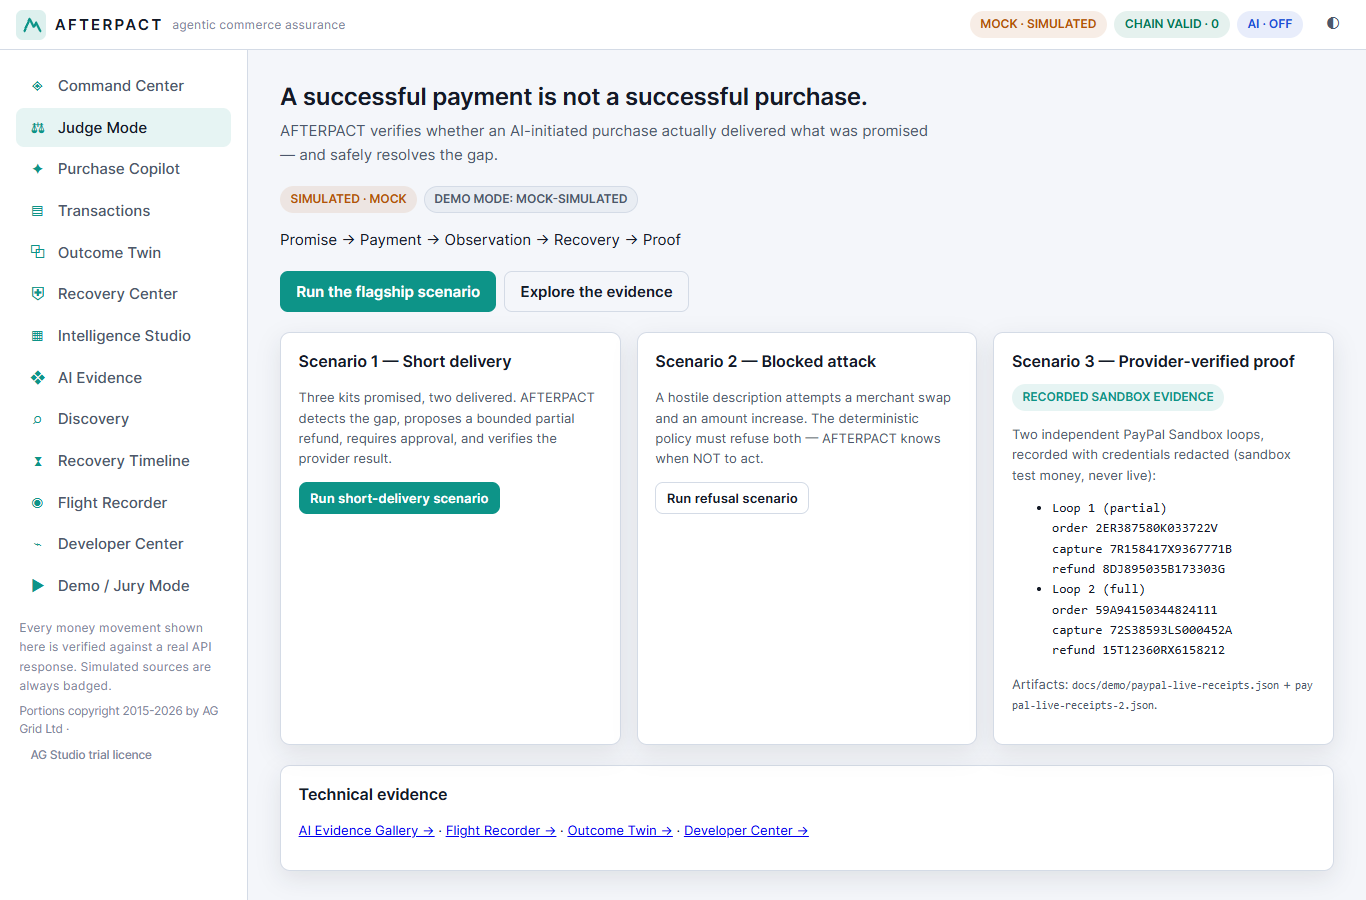
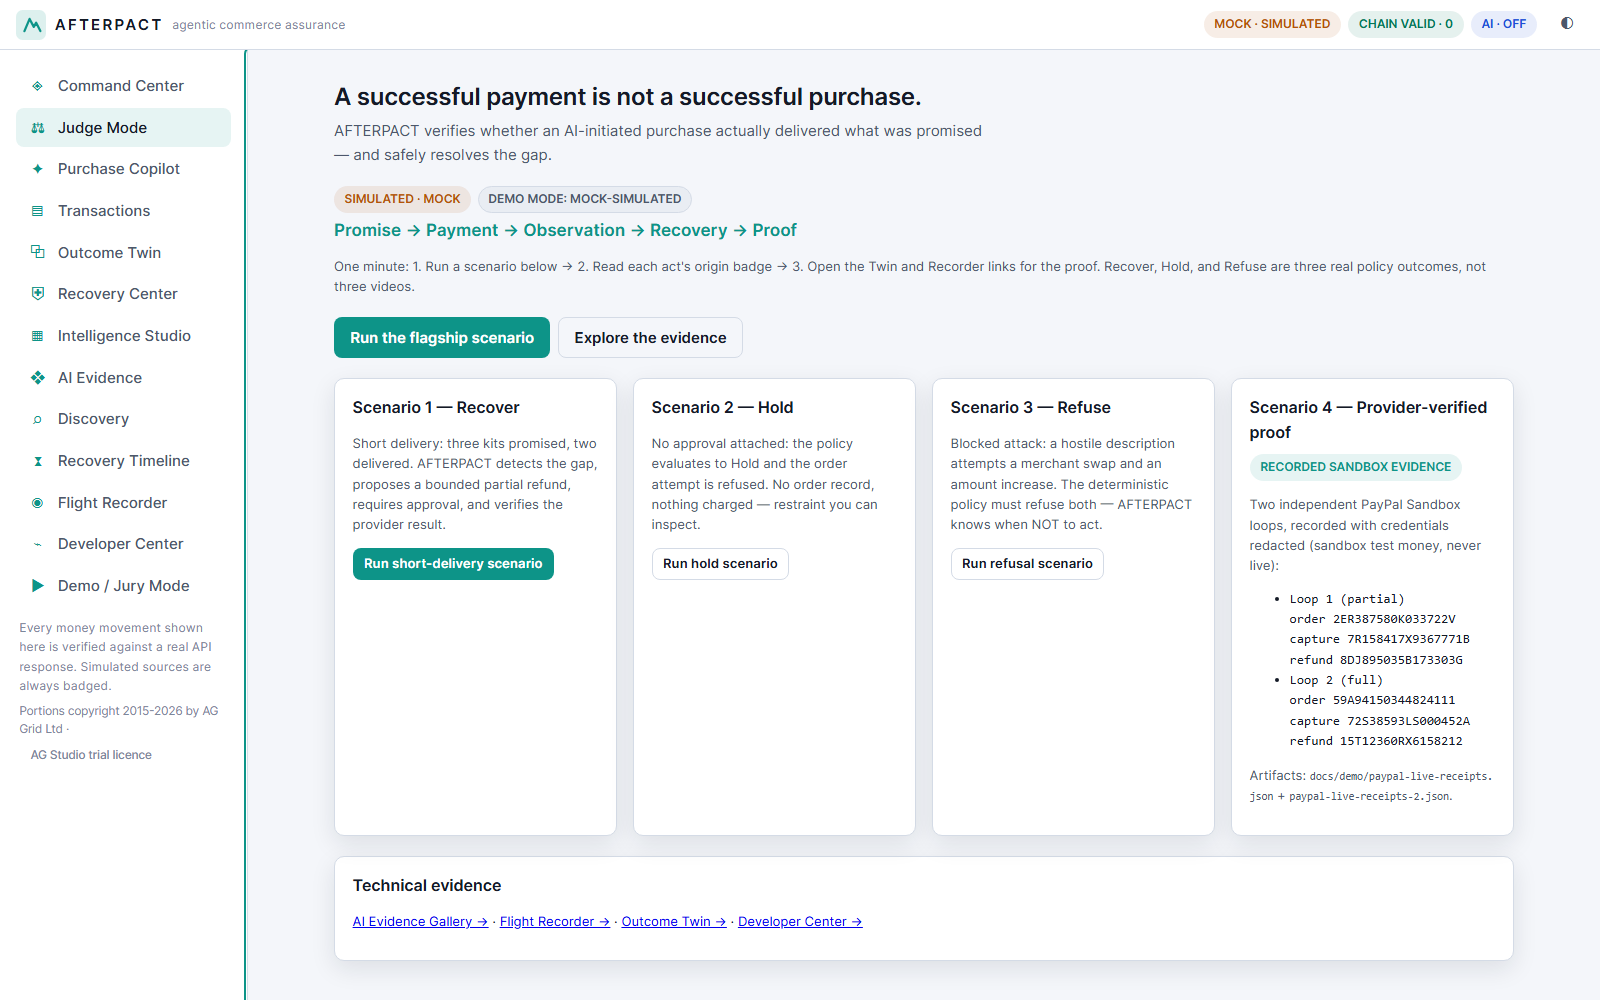
titan vi: jury-sim craft + metrics-truth fixes (317/33, 12/12)
Studio tab markup, lifecycle styling, route focus, CTA button; metrics table generated from reports; baseline heuristic as-shipped 12/15; eval README corrections; receipts loop-2 pin; dead task id removed; tool-kind doc truth.

diff --git a/tests/unit/metrics-summary.test.ts b/tests/unit/metrics-summary.test.ts
@@ -1,0 +1,80 @@
+import { readdirSync, readFileSync, writeFileSync } from "node:fs";
+import { join } from "node:path";
+import { describe, expect, it } from "vitest";
+
+/**
+ * METRICS_SUMMARY.md is generated from the committed live reports — the doc
+ * header says "computed from committed reports", and this test makes that
+ * claim machine-checked (a hand-edited latency column once drifted on all
+ * four rows). Zero inference: pure aggregation of report JSONs.
+ *
+ * Run `METRICS_UPDATE=1 npx vitest run tests/unit/metrics-summary.test.ts`
+ * to regenerate the table after adding a report; CI runs check-only.
+ */
+
+const EVALS_DIR = join(__dirname, "..", "..", "docs", "evals");
+const MD_PATH = join(EVALS_DIR, "METRICS_SUMMARY.md");
+
+interface LiveReport {
+  generatedAt: string;
+  totals: { scenarios: number; passed: number };
+  live: {
+    calls: number;
+    modelSuccess: number;
+    schemaFailures: number;
+    transportFailures: number;
+    citationPrecision: number;
+    citationsKept: number;
+    citationsDropped: number;
+    gateRefusals: number;
+    latencyP50Ms: number;
+    latencyP95Ms: number;
+    promptTokens: number;
+    completionTokens: number;
+  };
+}
+
+function loadReports(): { label: string; report: LiveReport }[] {
+  return readdirSync(EVALS_DIR)
+    .filter((f) => /^report-.*\.json$/.test(f))
+    .sort()
+    .map((f) => {
+      const report = JSON.parse(readFileSync(join(EVALS_DIR, f), "utf8")) as LiveReport;
+      const label = `${report.generatedAt.slice(11, 13)}-${report.generatedAt.slice(14, 16)}`;
+      return { label, report };
+    });
+}
+
+function buildTable(): string[] {
+  const rows = loadReports();
+  const lines = rows.map(({ label, report }) => {
+    const t = report.totals;
+    const l = report.live;
+    return `| ${label} | ${t.passed}/${t.scenarios} | ${l.modelSuccess}/${l.calls} | ${l.schemaFailures} | ${l.transportFailures} | ${l.citationPrecision.toFixed(3)} (${l.citationsKept}/${l.citationsDropped}) | ${l.gateRefusals} | ${l.latencyP50Ms}/${l.latencyP95Ms} | ${l.promptTokens}/${l.completionTokens} |`;
+  });
+  const sum = (pick: (r: LiveReport) => number): number => rows.reduce((n, r) => n + pick(r.report), 0);
+  const scenPass = sum((r) => r.totals.passed);
+  const scenTotal = sum((r) => r.totals.scenarios);
+  const modelOk = sum((r) => r.live.modelSuccess);
+  const calls = sum((r) => r.live.calls);
+  lines.push(
+    `| **Total** | **${scenPass}/${scenTotal}** | **${modelOk}/${calls}** | ${sum((r) => r.live.schemaFailures)} | ${sum((r) => r.live.transportFailures)} | ${(sum((r) => r.live.citationsKept) / Math.max(1, sum((r) => r.live.citationsKept) + sum((r) => r.live.citationsDropped))).toFixed(3)} (${sum((r) => r.live.citationsKept)}/${sum((r) => r.live.citationsDropped)}) | ${sum((r) => r.live.gateRefusals)} | — | ${sum((r) => r.live.promptTokens)}/${sum((r) => r.live.completionTokens)} |`,
+  );
+  return lines;
+}
+
+describe("metrics summary artifact", () => {
+  it("table matches deterministic recomputation from committed reports", () => {
+    const expected = buildTable();
+    expect(expected.length).toBeGreaterThan(0);
+    const lines = readFileSync(MD_PATH, "utf8").split("\n");
+    const headerIndex = lines.findIndex((l) => l.startsWith("| Run (UTC)"));
+    expect(headerIndex).toBeGreaterThanOrEqual(0);
+    if (process.env["METRICS_UPDATE"] === "1") {
+      lines.splice(headerIndex + 2, expected.length, ...expected);
+      writeFileSync(MD_PATH, `${lines.join("\n")}`);
+    }
+    const actual = readFileSync(MD_PATH, "utf8").split("\n").slice(headerIndex + 2, headerIndex + 2 + expected.length);
+    expect(actual).toEqual(expected);
+  });
+});

diff --git a/apps/web/public/app.js b/apps/web/public/app.js
@@ -1197,7 +1197,7 @@ async function renderJudge() {
     <div class="badge-row section-gap">${transportPill}<span class="pill">DEMO MODE: ${escapeHtml(String(config.transport).toUpperCase())}</span></div>
     <p class="judge-lifecycle">Promise → Payment → Observation → Recovery → Proof</p>
     <p class="small muted">One minute: 1. Run a scenario below → 2. Read each act's origin badge → 3. Open the Twin and Recorder links for the proof. Recover, Hold, and Refuse are three real policy outcomes, not three videos.</p>
-    <div class="button-row section-gap"><a class="button" href="#/judge" id="judgeRun">Run the flagship scenario</a><a class="button secondary" href="#/recorder">Explore the evidence</a></div>
+    <div class="button-row section-gap"><button class="button" id="judgeRun" type="button">Run the flagship scenario</button><a class="button secondary" href="#/recorder">Explore the evidence</a></div>
     <div class="grid four section-gap">
       <div class="card" data-scenario-card="flagship">
         <h2>Scenario 1 — Recover</h2>
@@ -1635,7 +1635,7 @@ async function renderStudio() {
       </div>
       <div class="card section-gap"><h2>Datasets</h2>
         <div class="button-row" role="tablist" aria-label="Studio datasets">
-          ${["incidents", "promises", "refunds", "captures"].map((e) => `<button class="button small${studio.entity === e ? "" : " secondary"}" data-studio-entity="${e}" role="tab" aria-selected="${studio.entity === e}"${e} (${(datasets[e] ?? []).length})</button>`).join("")}
+          ${["incidents", "promises", "refunds", "captures"].map((e) => `<button class="button small${studio.entity === e ? "" : " secondary"}" data-studio-entity="${e}" role="tab" aria-selected="${studio.entity === e}">${e} (${(datasets[e] ?? []).length})</button>`).join("")}
         </div>
         <div id="studioCross" class="section-gap"></div>
         <div id="studioGrid"></div>
@@ -2100,6 +2100,10 @@ async function route() {
   const { path, params } = currentRoute();
   $("#sidenav").classList.remove("open");
   $("#navToggle").setAttribute("aria-expanded", "false");
+  // SPA focus management: move focus to the persistent main landmark so
+  // keyboard/screen-reader users land on the new view, not the old one.
+  const main = $("#main");
+  if (main && document.activeElement !== main) main.focus({ preventScroll: true });
   if (path === "/") return renderCommand();
   if (path === "/copilot") return renderCopilot();
   if (path === "/tx") return renderTxList();

diff --git a/tests/e2e/judge.e2e.ts b/tests/e2e/judge.e2e.ts
@@ -5,18 +5,20 @@ test("judge mode entry explains the product in one screen", async ({ page }) => 
   const errors = collectPageErrors(page);
   await page.goto("/#/judge");
   await expect(page.getByRole("heading", { name: "A successful payment is not a successful purchase." })).toBeVisible();
-  await expect(page.getByRole("link", { name: "Run the flagship scenario" })).toBeVisible();
+  await expect(page.getByRole("button", { name: "Run the flagship scenario" })).toBeVisible();
   await expect(page.getByRole("link", { name: "Explore the evidence" })).toBeVisible();
   await expect(page.locator("[data-scenario-card]")).toHaveCount(4);
   await expect(page.getByText("Promise → Payment → Observation → Recovery → Proof")).toBeVisible();
   await expect(page.getByText("Recover, Hold, and Refuse are three real policy outcomes")).toBeVisible();
+  // SPA route change moves focus to the main landmark for keyboard/SR users.
+  await expect(page.locator("#main")).toBeFocused();
   expect(errors).toEqual([]);
 });
 
 test("judge mode runs the flagship scenario with a guided sequence", async ({ page }) => {
   const errors = collectPageErrors(page);
   await page.goto("/#/judge");
-  await page.getByRole("link", { name: "Run the flagship scenario" }).click();
+  await page.getByRole("button", { name: "Run the flagship scenario" }).click();
   await expect(page.locator("[data-judge-acts]").first()).toBeVisible({ timeout: 60000 });
   await expect(page.locator("[data-judge-acts] [data-act-status='passed']").first()).toBeVisible();
   await expect(page.locator('a[href^="#/twin?promiseId="]').first()).toBeVisible();

diff --git a/tests/integration/paypal.receipts.test.ts b/tests/integration/paypal.receipts.test.ts
@@ -32,4 +32,24 @@ describe("paypal live receipts artifact", () => {
     const raw = readFileSync(path, "utf8");
     expect(raw).not.toMatch(/client_secret|Basic [A-Za-z0-9+/=]{20,}|Bearer [A-Za-z0-9._-]{20,}/);
   });
+
+  it("pins the second provider-confirmed sandbox loop (full refund)", () => {
+    const path2 = join(REPO_ROOT, "docs", "demo", "paypal-live-receipts-2.json");
+    expect(existsSync(path2)).toBe(true);
+    const receipts = JSON.parse(readFileSync(path2, "utf8"));
+    expect(receipts.provider).toBe("api-m.sandbox.paypal.com");
+    expect(receipts.order.id).toBe("59A94150344824111");
+    expect(receipts.order.status).toBe("COMPLETED");
+    expect(receipts.order.amount).toEqual({ currency: "USD", amountMinor: 500 });
+    expect(receipts.capture.id).toBe("72S38593LS000452A");
+    expect(receipts.capture.status).toBe("REFUNDED");
+    expect(receipts.capture.amount).toEqual({ currency: "USD", amountMinor: 500 });
+    expect(receipts.refund.id).toBe("15T12360RX6158212");
+    expect(receipts.refund.status).toBe("COMPLETED");
+    expect(receipts.refund.amount).toEqual({ currency: "USD", amountMinor: 500 });
+    expect(receipts.refund.partial).toBe(false);
+    expect(typeof receipts.fetchedAt).toBe("string");
+    const raw = readFileSync(path2, "utf8");
+    expect(raw).not.toMatch(/client_secret|Basic [A-Za-z0-9+/=]{20,}|Bearer [A-Za-z0-9._-]{20,}/);
+  });
 });

diff --git a/apps/api/src/studioAgent.ts b/apps/api/src/studioAgent.ts
@@ -12,9 +12,12 @@ import type {
  * The browser adapter posts Studio conversation turns here; this module maps
  * them onto provider chat calls. The inference key never leaves the server.
  * Turns are STRICT: failures surface as errors, never as fabricated turns.
- * Only `client` tools are forwarded — Studio executes those in the browser
- * against its own API; provider-hosted or server-executed tools have no
- * executor in this loop and are dropped (documented, tested).
+ * Tool kinds `undefined` (Studio built-ins), `client`, and `server` are
+ * forwarded to the model — the browser adapter executes every returned
+ * tool call against its own API and reposts the results, so the kind
+ * label describes the tool's origin, not a separate executor. Any other
+ * kind (e.g. provider-hosted tools) has no executor in this loop and is
+ * dropped (documented, tested).
  */
 
 const MAX_ITEMS = 40;

diff --git a/tests/e2e/studio.e2e.ts b/tests/e2e/studio.e2e.ts
@@ -16,6 +16,10 @@ test("studio canvas mounts with live sources and trial pill", async ({ page, req
   // The custom Outcome Risk Analyst agent (not the base harness) must win
   // against the real bundle — keyless mount still builds the full harness.
   await expect(host).toHaveAttribute("data-harness-kind", "outcome-risk-analyst", { timeout: 30000 });
+  // Dataset tabs render real labels, not attribute soup (regression: a
+  // missing '>' once collapsed entity names into the button markup).
+  await expect(page.locator('[data-studio-entity="incidents"]')).toContainText("incidents");
+  await expect(page.locator('[data-studio-entity="promises"]')).toContainText("promises");
   await expect(page.locator("html[data-ag-theme-mode]")).toHaveCount(1);
   expect(errors).toEqual([]);
 });

diff --git a/tests/unit/studio-agent.test.ts b/tests/unit/studio-agent.test.ts
@@ -58,9 +58,11 @@ describe("studioToolsToChatTools", () => {
     const tools = studioToolsToChatTools([
       { name: "addWidget", description: "add", parameters: { type: "object" }, kind: "client" },
       { name: "query", description: "q", parameters: {} },
+      { name: "serverList", description: "s", parameters: {}, kind: "server" },
       { name: "webSearch", description: "w", parameters: {}, kind: "provided" },
+      { name: "otherHosted", description: "h", parameters: {}, kind: "hosted" },
     ]);
-    expect(tools?.map((t) => t.name)).toEqual(["addWidget", "query"]);
+    expect(tools?.map((t) => t.name)).toEqual(["addWidget", "query", "serverList"]);
   });
 
   it("returns undefined when no tools are offered", () => {

diff --git a/apps/web/public/styles.css b/apps/web/public/styles.css
@@ -168,6 +168,19 @@ body {
 @media (min-width: 900px) { .grid.four { grid-template-columns: 1fr 1fr; } }
 @media (min-width: 1400px) { .grid.four { grid-template-columns: 1fr 1fr 1fr 1fr; } }
 
+/* Judge Mode orientation strip: the one line a first-timer must notice. */
+.judge-lifecycle {
+  font-size: 1.05rem;
+  font-weight: 700;
+  letter-spacing: 0.01em;
+  color: var(--accent);
+  margin: 0.25rem 0 0.75rem;
+}
+
+/* scrollIntoView targets clear the sticky topbar instead of hiding under it. */
+#judgeResult { scroll-margin-top: 76px; }
+[data-judge-acts] { scroll-margin-top: 76px; }
+
 /* Outcome Twin divergence strip: violation → evidence → correction, one row. */
 .twin-divergence {
   border-left: 4px solid var(--danger);

diff --git a/tests/eval/baseline.compare.test.ts b/tests/eval/baseline.compare.test.ts
@@ -44,7 +44,10 @@ function baselineChecks(scenario: EvalScenario): { check: string; pass: boolean 
       productType: parsed.categories[0] ?? null,
       deadlineDays: parsed.deadlineDays,
     },
-    ambiguities: [],
+    // Score the heuristic as shipped: the runtime fallback surfaces
+    // parsed.notes as ambiguities (aiTasks heuristicIntent), so the
+    // baseline must too — hardcoding [] would rig ambiguity checks.
+    ambiguities: parsed.notes,
     requirements: parsed.mandatory,
     injection,
   };

diff --git a/apps/web/public/index.html b/apps/web/public/index.html
@@ -48,7 +48,7 @@
       <p class="sidenav-note">Every money movement shown here is verified against a real API response. Simulated sources are always badged.</p>
       <p class="license-note">Portions copyright 2015-2026 by AG Grid Ltd · <a href="/vendor/ag-studio.LICENSE.html">AG Studio trial licence</a></p>
     </nav>
-    <main class="main" id="main" tabindex="-1">
+    <main class="main" id="main" tabindex="-1" aria-label="Main content">
       <div id="view" aria-live="off"></div>
     </main>
   </div>

diff --git a/packages/ai/src/types.ts b/packages/ai/src/types.ts
@@ -1,9 +1,9 @@
 import type { z } from "zod";
 
-/** Stable task identifiers for prompts, evals, and cost attribution. */
+/** Stable task identifiers for prompts, evals, and cost attribution.
+ * Only implemented tasks are listed (offer evaluation has no AI task yet). */
 export type AITaskId =
   | "purchase-intelligence"
-  | "offer-evaluation"
   | "incident-intelligence"
   | "recovery-planning"
   | "analytics-assistant";

diff --git a/docs/hackathon/TITAN_VI_EVIDENCE_LEDGER.md b/docs/hackathon/TITAN_VI_EVIDENCE_LEDGER.md
@@ -8,7 +8,7 @@ UNVERIFIED · NOT DONE · NOT MEASURED · ESTIMATE · OWNER ACTION REQUIRED.
 
 | # | Claim | State | Artifact |
 |---|---|---|---|
-| 1 | Vitest 315 passed / 0 failed / 33 skipped (keyless) | VERIFIED | `npm test` 2026-11-09 branch `titan-vi` (38 files, 348 total); CI `verify` after push |
+| 1 | Vitest 317 passed / 0 failed / 33 skipped (keyless) | VERIFIED | `npm test` 2026-11-09 branch `titan-vi` (39 files, 350 total); CI `verify` after push |
 | 2 | Playwright 12/12 incl. Hold + mobile/keyboard judge tests | VERIFIED | `npx playwright test` 2026-11-09; `tests/e2e/*.e2e.ts` |
 | 3 | Strict tsc clean on 6 projects | VERIFIED | `npm run typecheck` exit 0, 2026-11-09 |
 | 4 | Newman 37/37 requests, 18/18 assertions | VERIFIED | `postman/newman-report.json` (unchanged; no route shape changed) |
@@ -32,7 +32,7 @@ UNVERIFIED · NOT DONE · NOT MEASURED · ESTIMATE · OWNER ACTION REQUIRED.
 | 12 | Runtime inference via Vultr `deepseek-v4.1-flash-1017`, identity-verified | VERIFIED | `packages/ai/src/vultr.ts` + `ai-provider.test.ts`; committed eval reports (4 runs) |
 | 13 | Eval corpus 53 (30 live / 23 offline); 117/120 across 4 runs, latest 30/30, citation precision 1.000 | VERIFIED | `docs/evals/report-*.json`, `METRICS_SUMMARY.md`, `FAILURE_ANALYSIS.md` |
 | 14 | Citation recall | NOT MEASURED | explicitly unclaimed (precision ≠ recall) |
-| 15 | AI 59/60 vs heuristic 9/15 (shared 15 intents) | VERIFIED with caveat | `BASELINE_COMPARISON.md` (asymmetric: 4 AI runs vs 1 heuristic run — caveat kept) |
+| 15 | AI 59/60 vs heuristic 12/15 (shared 15 intents, heuristic scored as shipped) | VERIFIED with caveat | `BASELINE_COMPARISON.md` (asymmetric: 4 AI runs vs 1 heuristic run — caveat kept; TITAN VI fixed a baseline harness bug that had hardcoded ambiguities `[]` and understated the heuristic at 9/15) |
 | 16 | Gallery shows RECORDED runs, never fake-live | VERIFIED | `apps/web/public/gallery/ai-gallery.json` + `ai.gallery.test.ts` + `gallery.e2e.ts` |
 | 17 | AI proposes only; policy + human dispose; over-refunds refused never clamped | VERIFIED | `aiTasks.ts` gates + `ai.tasks/ai-tasks.test.ts` + policy engine tests |
 
